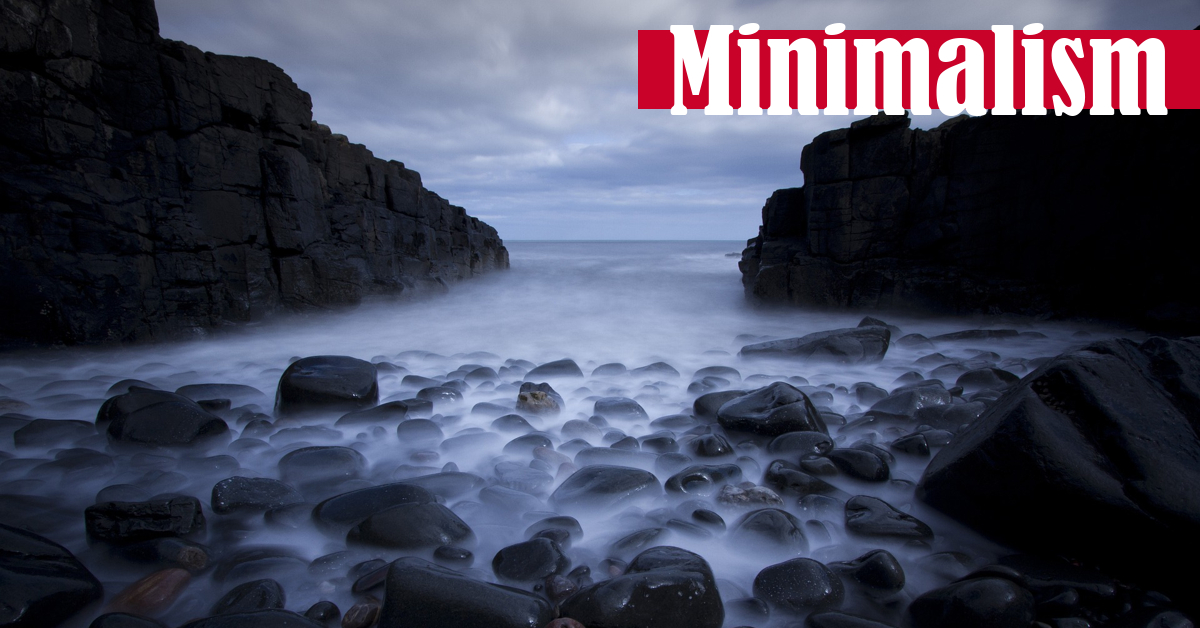
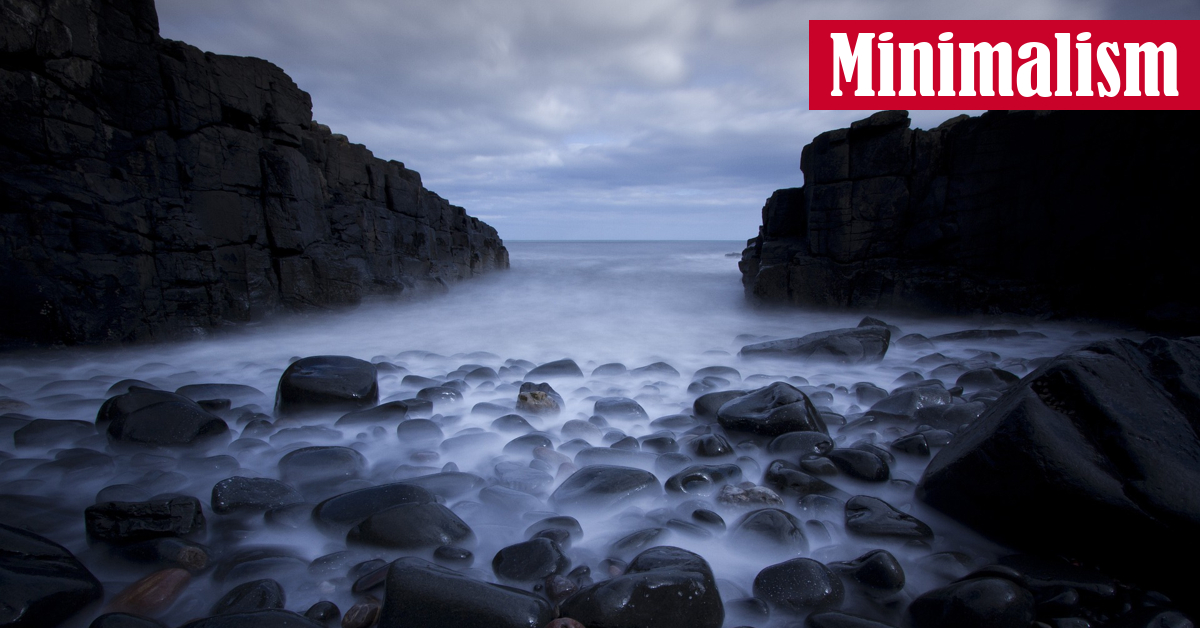
Mostly automated titling

Changed region(s): [[0.5242, 0.0303, 1.0, 0.1815]]

diff --git a/imagetitler/draw.py b/imagetitler/draw.py
@@ -15,12 +15,9 @@ TEXT_FILL = (255, 255, 255)
 RECTANGLE_FILL = (201, 2, 41)
 WHITE = (255, 255, 255, 0)
 
-FONT_SIZE = 114
-TOP_RECTANGLE_Y = 30
-BOTTOM_RECTANGLE_Y = TOP_RECTANGLE_Y + 180
-BOTTOM_TEXT_Y = BOTTOM_RECTANGLE_Y + 5
-X_OFFSET = 30
-LOGO_PADDING = 30
+TOP_RECTANGLE_Y = 20
+X_OFFSET = 20
+LOGO_PADDING = TOP_RECTANGLE_Y
 
 
 def process_images(**kwargs) -> List[Image.Image]:
@@ -139,7 +136,7 @@ def _get_bar_height(**kwargs) -> int:
     :return: the bar height in pixels
     """
     image_size = _retrieve_size_from_options(**kwargs)
-    return image_size[1] // 8
+    return image_size[1] // 7
 
 
 def _draw_rectangle(
@@ -221,6 +218,17 @@ def _get_text_metrics(text: str, font: ImageFont):
     return width, offset_y, ascent - offset_y, descent
 
 
+def _get_appropriate_font_size(**kwargs) -> ImageFont:
+    bar_height = _get_bar_height(**kwargs)
+    font = kwargs.get(KEY_FONT, DEFAULT_FONT)
+    font = font if font else DEFAULT_FONT
+    title = kwargs.get(KEY_TITLE)
+    font_size = 12
+    while ImageFont.truetype(font, font_size).getsize(title)[1] < bar_height - 10:
+        font_size += 1
+    return ImageFont.truetype(font, font_size)
+
+
 def _draw_overlay(image: Image.Image, color: tuple, **kwargs) -> Image:
     """
     Draws text over an image.
@@ -229,9 +237,7 @@ def _draw_overlay(image: Image.Image, color: tuple, **kwargs) -> Image:
     :return: the updated image
     """
     draw = ImageDraw.Draw(image)
-    font = kwargs.get(KEY_FONT, DEFAULT_FONT)
-    font = font if font else DEFAULT_FONT
-    font = ImageFont.truetype(font, FONT_SIZE)
+    font = _get_appropriate_font_size(**kwargs)
 
     if title := kwargs.get(KEY_TITLE):
         # Detect space (precondition for split)
@@ -246,7 +252,7 @@ def _draw_overlay(image: Image.Image, color: tuple, **kwargs) -> Image:
         _draw_rectangle(draw, TOP_RECTANGLE_Y, width, color, **kwargs)
         _draw_text(draw, top_position, top_half_text, font)
 
-        bottom_rectangle_y = TOP_RECTANGLE_Y + _get_bar_height(**kwargs) + 30
+        bottom_rectangle_y = TOP_RECTANGLE_Y + _get_bar_height(**kwargs) + 25
 
         # Draw bottom
         if bottom_half_text:
